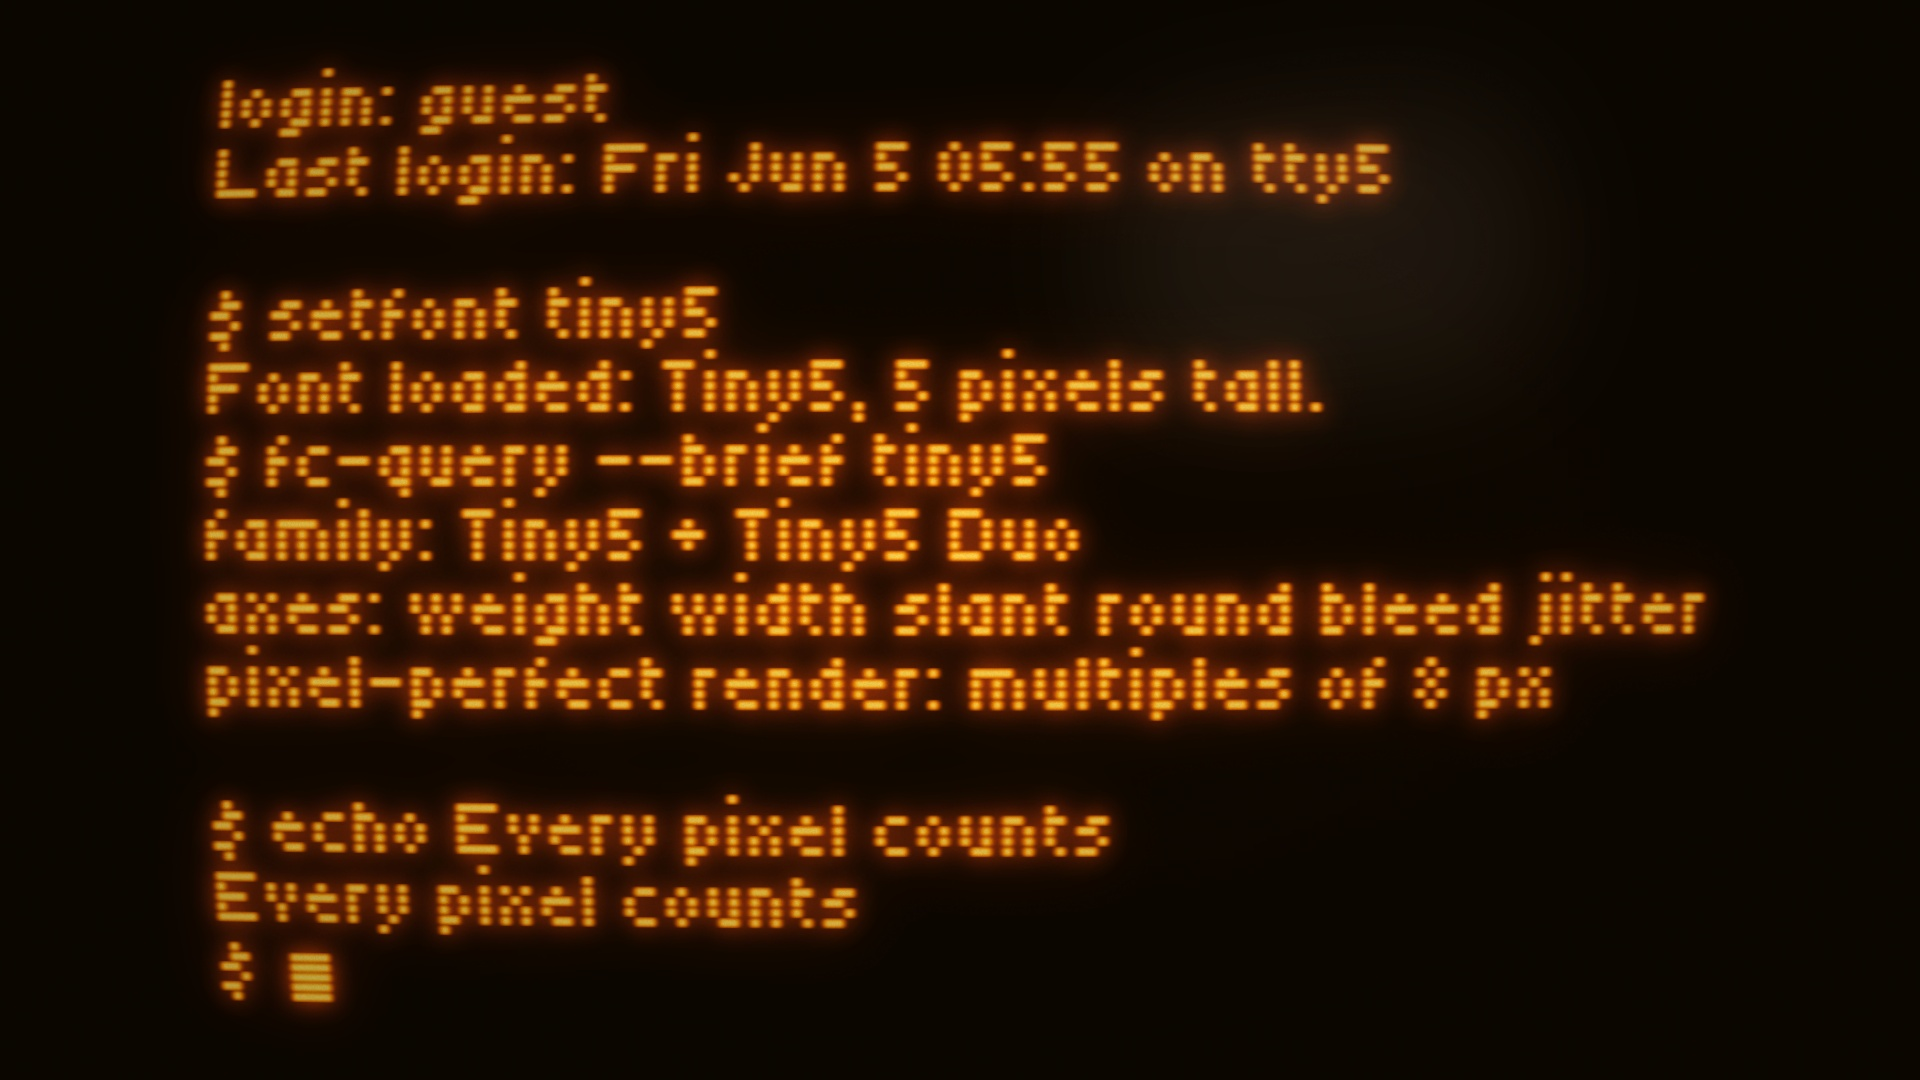
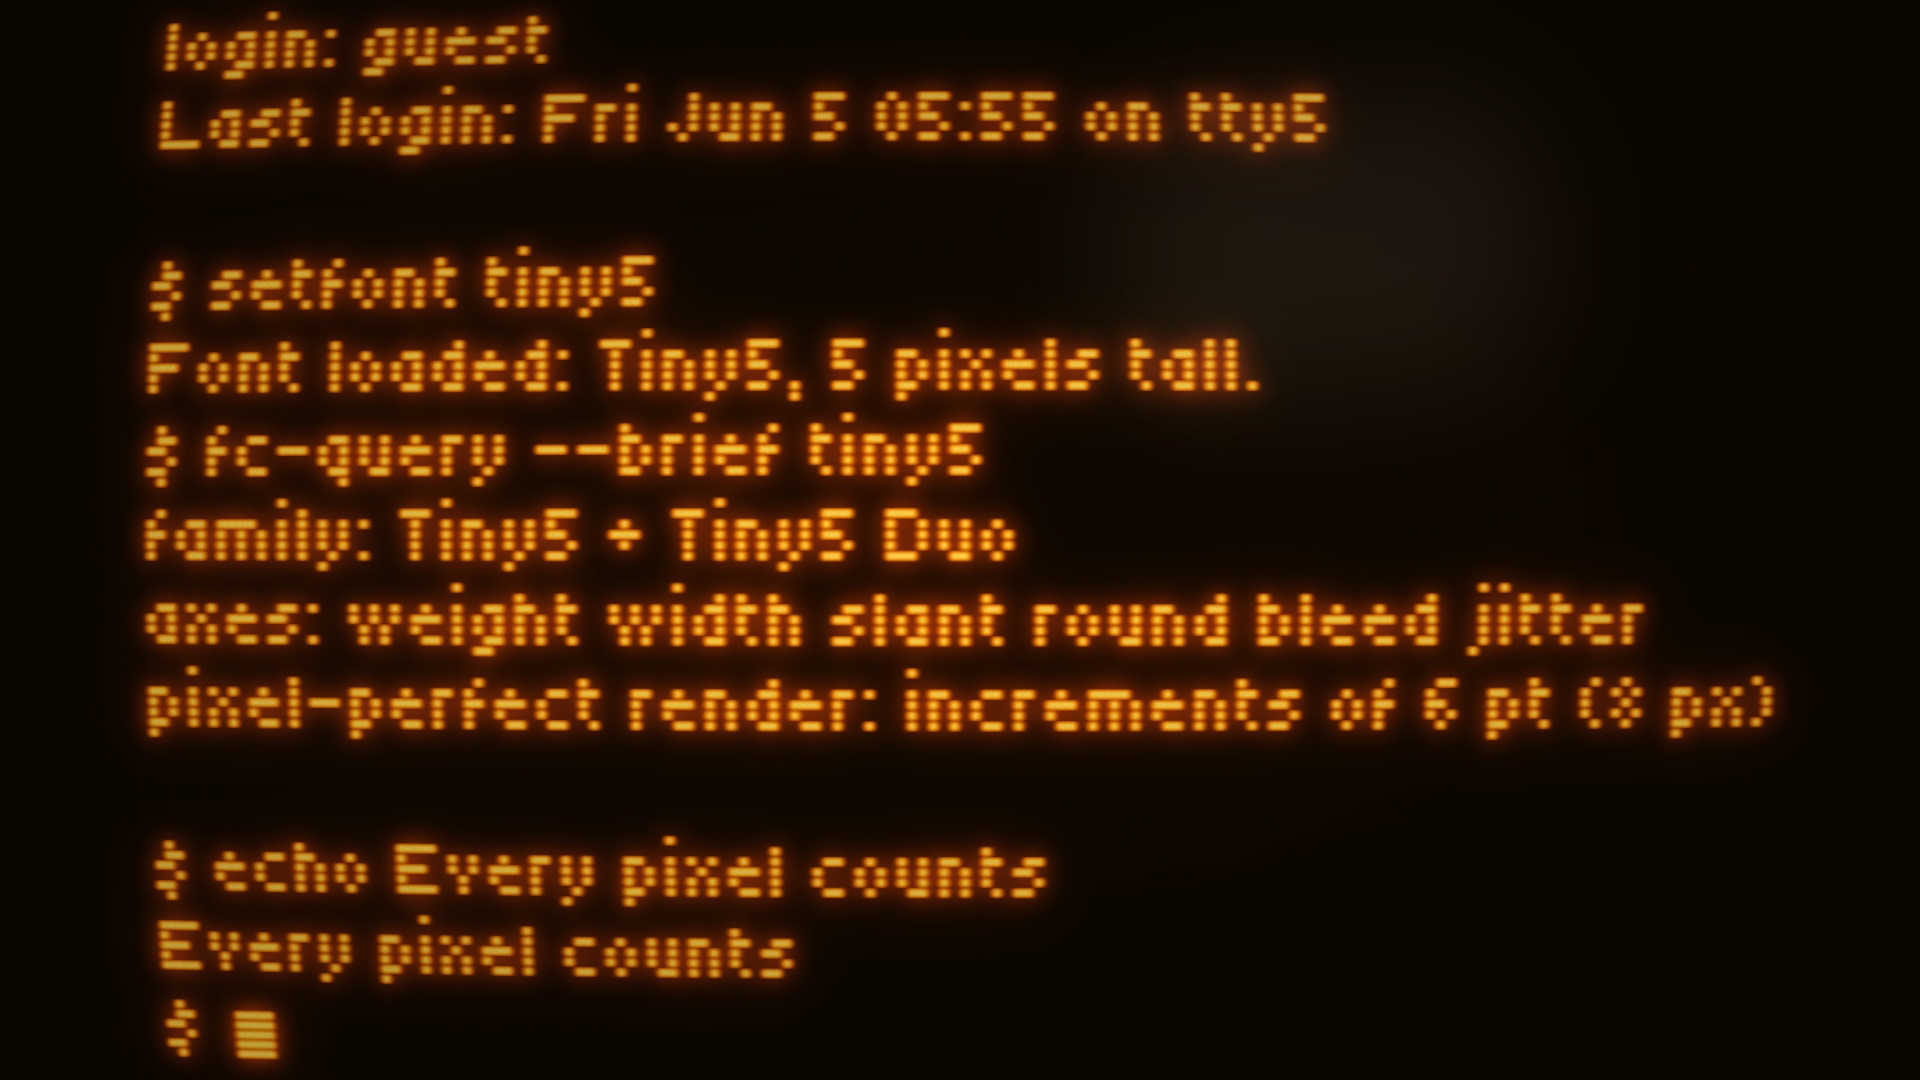
Specimen update

diff --git a/documentation/build-specimen.py b/documentation/build-specimen.py
@@ -514,7 +514,7 @@ VFD_MESH_PITCH = 5
 # does, so the raster is zoomed in rather than subdivided
 CRT_GRID = (192, 108)
 CRT_CELL = 10
-CRT_LINE_PITCH = 7
+CRT_LINE_PITCH = 8
 CRT_BG = (16, 9, 2)
 
 # A P3 amber tube: orange at working brightness, the saturated cores
@@ -634,7 +634,7 @@ TERMINAL_LINES = [
     "$ fc-query --brief tiny5",
     "family: Tiny5 + Tiny5 Duo",
     "axes: weight width slant round bleed jitter",
-    "pixel-perfect render: multiples of 8 px",
+    "pixel-perfect render: increments of 6 pt (8 px)",
     "",
     "$ echo Every pixel counts",
     "Every pixel counts",
